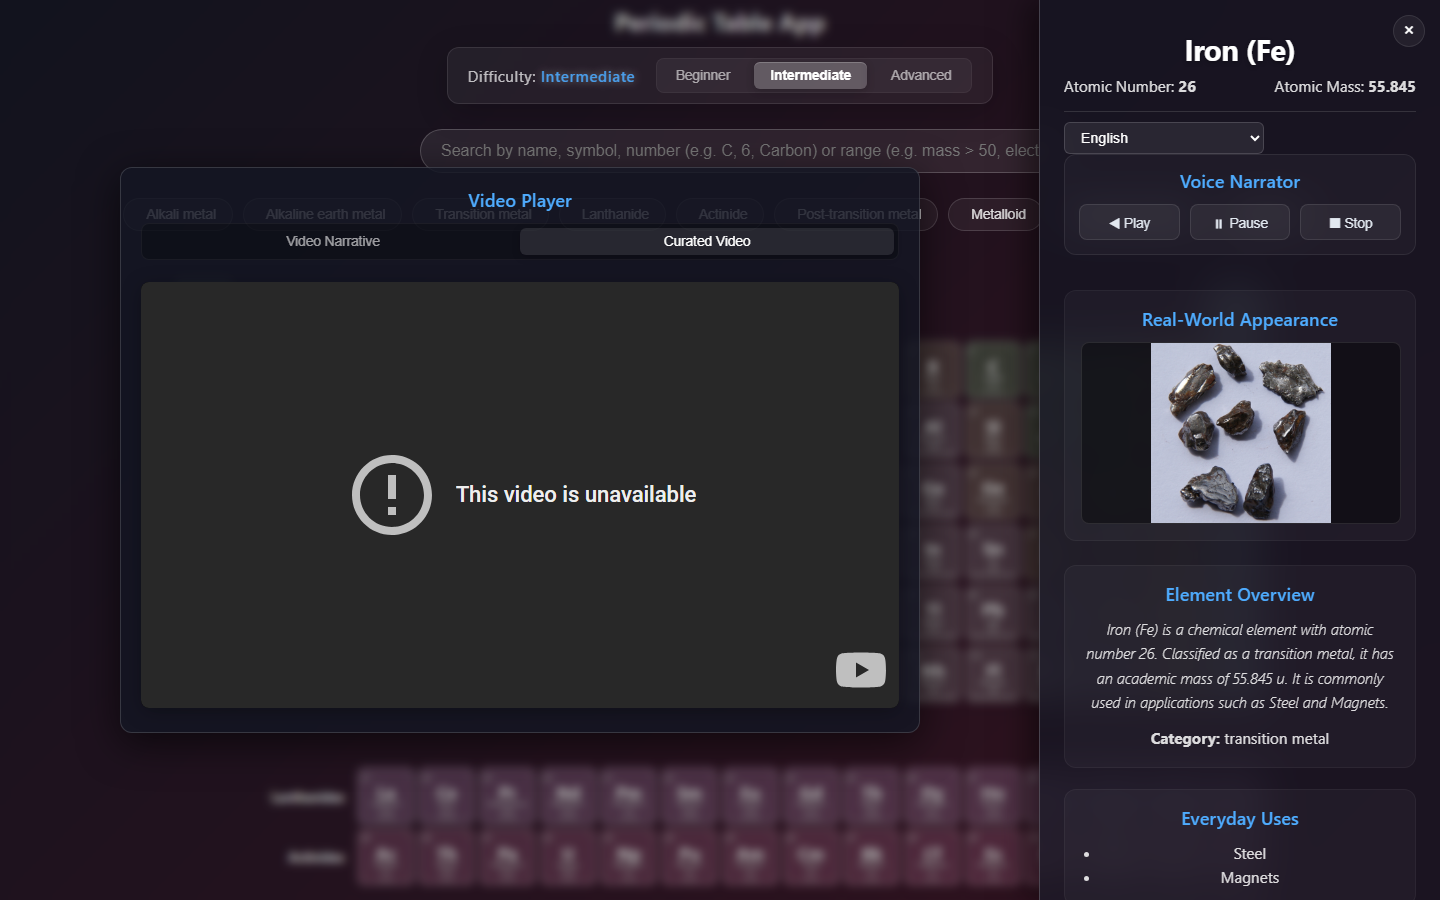
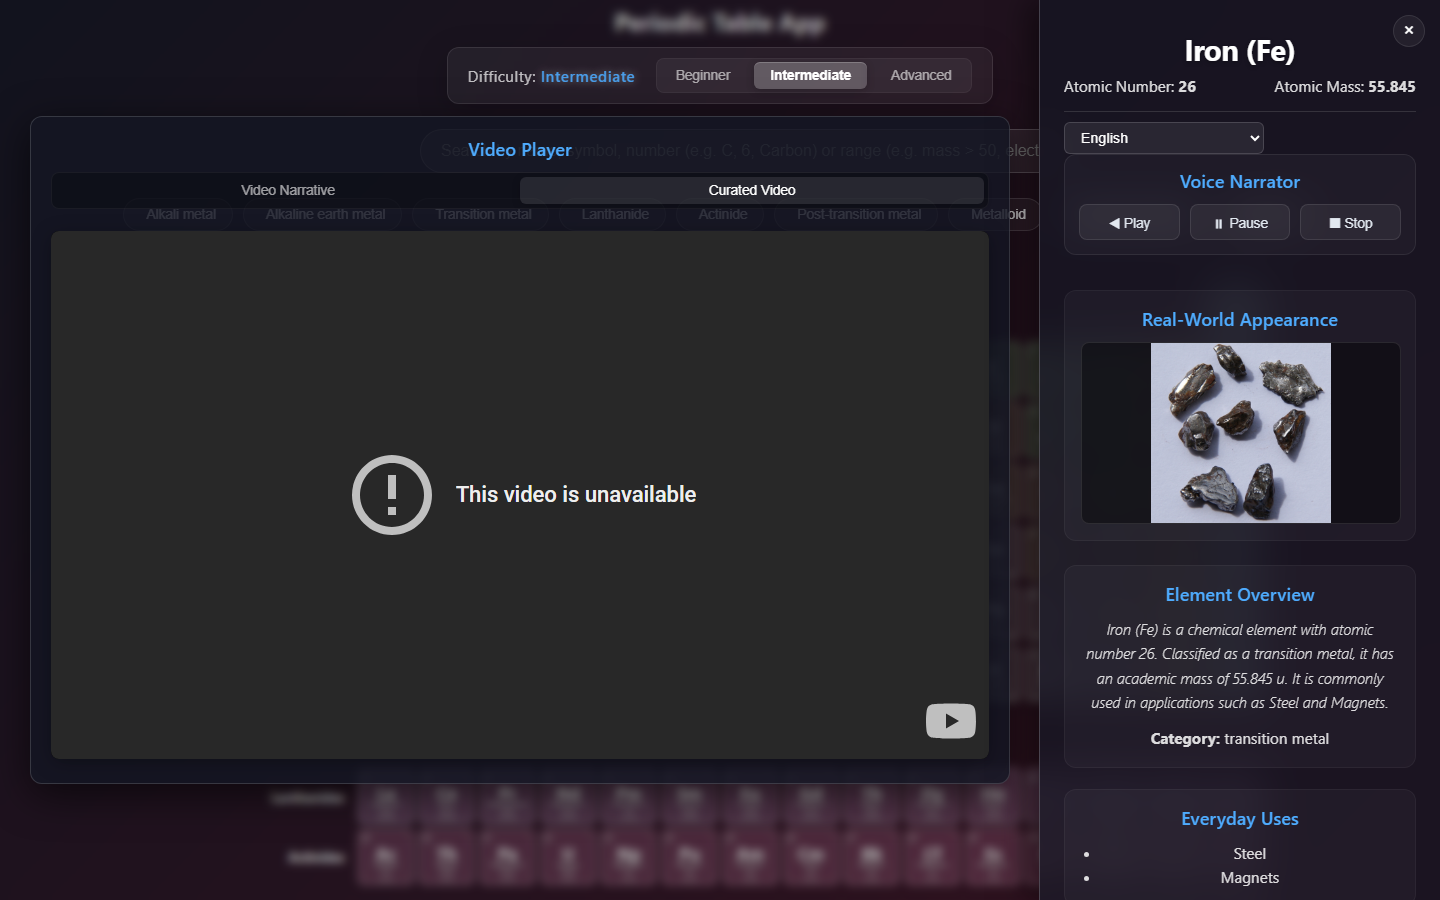
style: increase video player width to 1050px and update screenshots

Changed region(s): [[0.0625, 0.2178, 0.7188, 0.9022], [0.2812, 0.1244, 0.7188, 0.2489], [0.1562, 0.1867, 0.2188, 0.2178]]

diff --git a/src/styles/main.css b/src/styles/main.css
@@ -367,7 +367,7 @@
 }
 
 .floating-video-container {
-  width: 800px;
+  width: 1050px;
   max-width: calc(100% - 60px);
   pointer-events: auto;
   box-sizing: border-box;